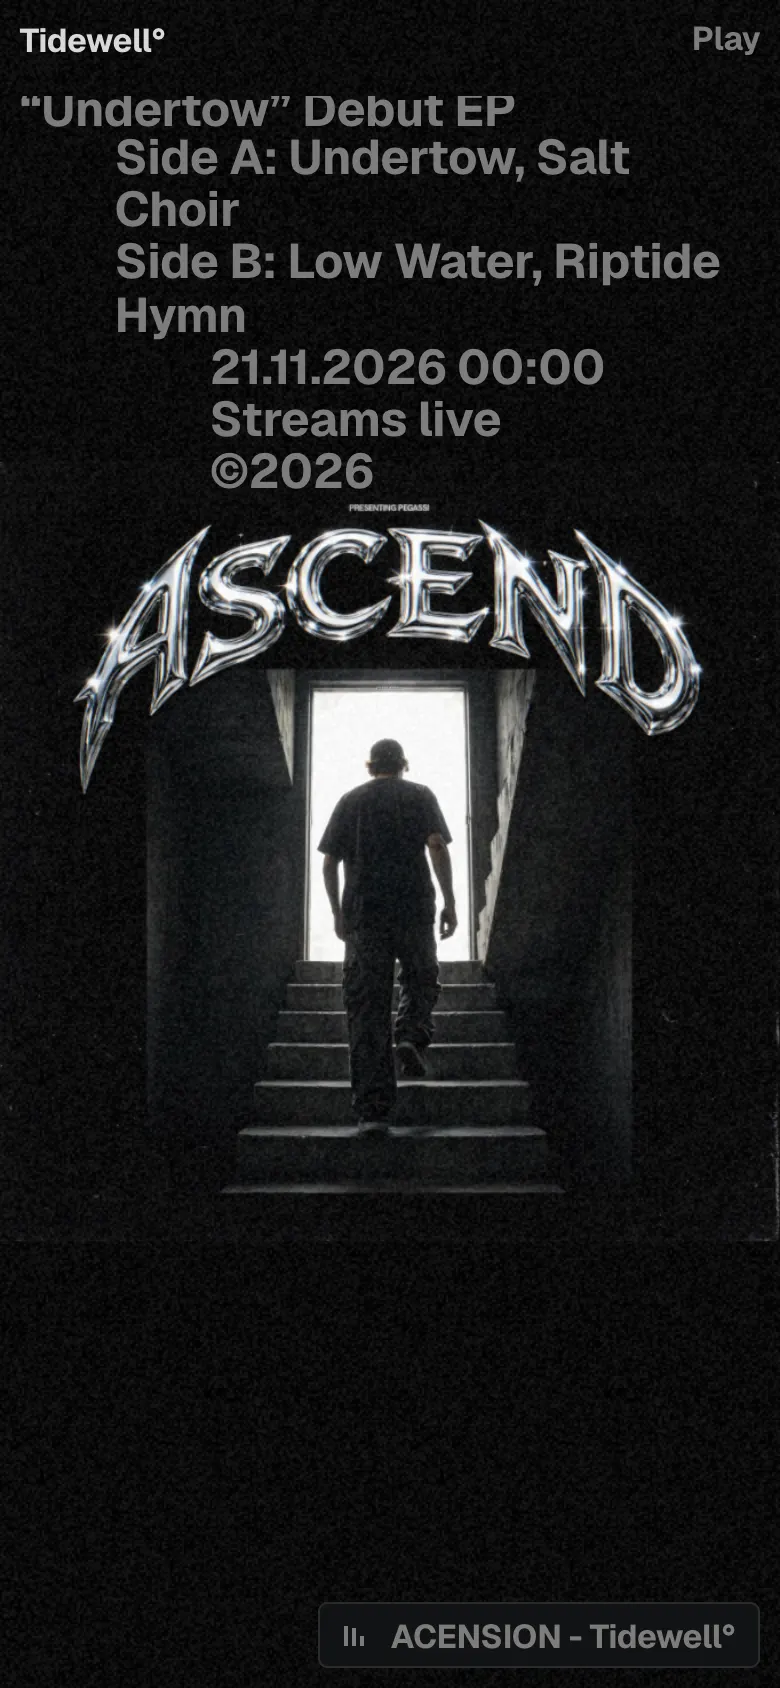
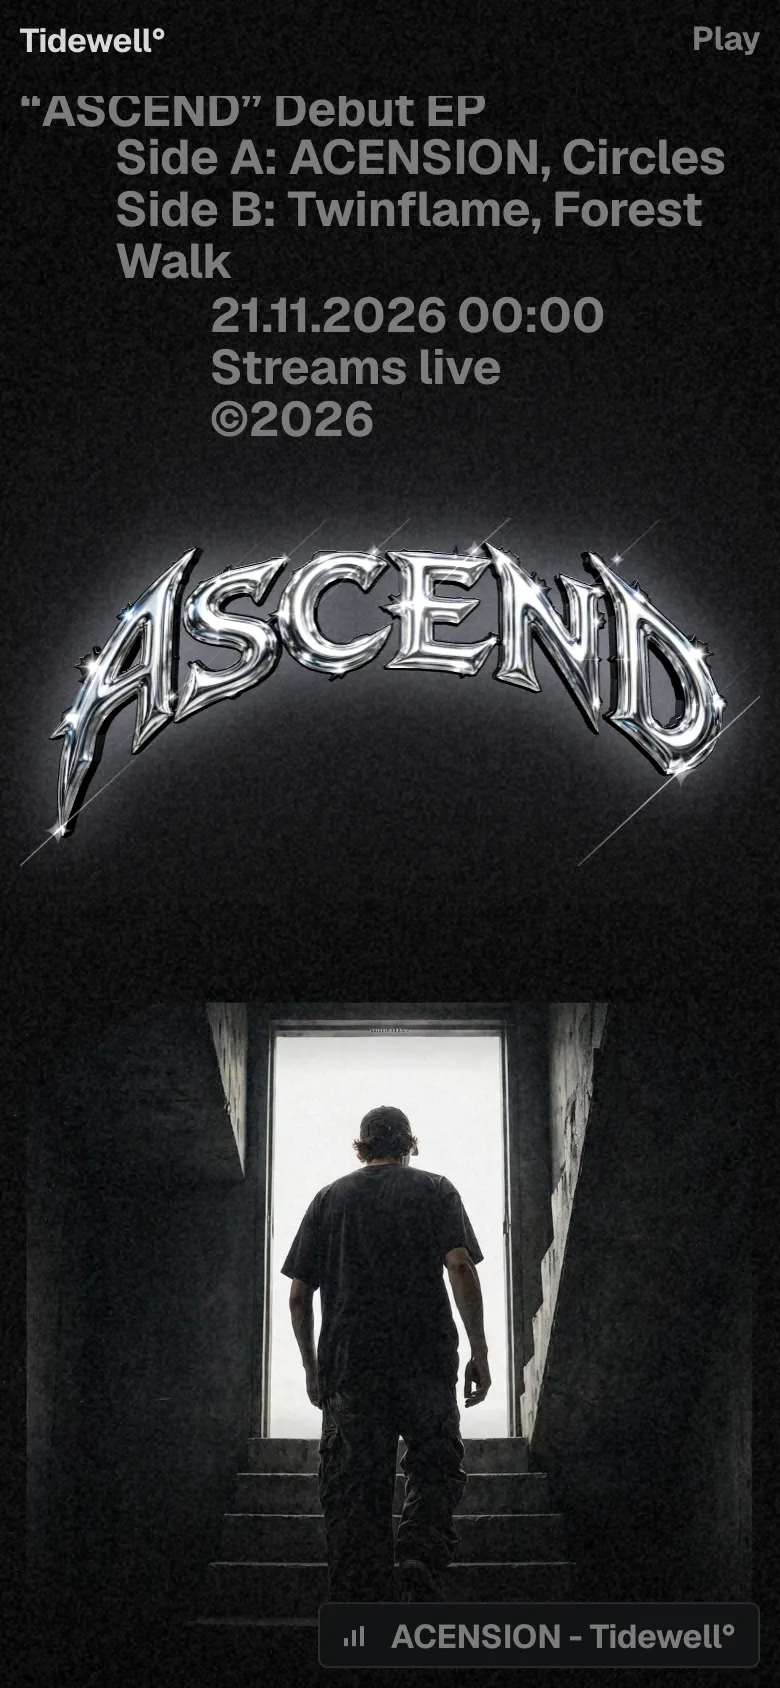
ASCEND rename across copy, sequencer kits, licence; refreshed README screens

diff --git a/src/app/page.tsx b/src/app/page.tsx
@@ -23,10 +23,10 @@ const FACTS = [
   { k: "B:", title: "Where we go next.", text: "Club nights, open-air shows, a new live set built around these four tracks and a lot of very late trains home. Come find me at the front." },
 ];
 const TITLES = [
-  { cue: "I", title: "Undertow", meta: "84 BPM", order: "order-1" },
-  { cue: "III", title: "Low Water", meta: "100 BPM", order: "order-3" },
-  { cue: "II", title: "Salt Choir", meta: "72 BPM", order: "order-2" },
-  { cue: "IV", title: "Riptide Hymn", meta: "120 BPM", order: "order-4" },
+  { cue: "I", title: "ACENSION", meta: "YouTube", order: "order-1" },
+  { cue: "III", title: "Twinflame", meta: "YouTube", order: "order-3" },
+  { cue: "II", title: "Circles", meta: "YouTube", order: "order-2" },
+  { cue: "IV", title: "Forest Walk", meta: "YouTube", order: "order-4" },
 ];
 
 function Mark({ children, className = "", style }: { children: string; className?: string; style?: CSSProperties }) {
@@ -65,7 +65,7 @@ export default function Home() {
               <img src="/media/ascend-stairs.jpg" alt="" className="absolute inset-0 size-full object-cover" />
             </div>
           </div>
-          <h1 className="sr-only">Tidewell, Undertow EP</h1>
+          <h1 className="sr-only">Tidewell, ASCEND EP</h1>
           <div className="t-body pointer-events-none absolute inset-x-0 top-0 h-svh text-mute">
             <p className="absolute top-1/2 hidden -translate-y-1/2 s:block" style={{ left: U(10) }}><Slide d={5}>EP</Slide></p>
             <p className="absolute top-1/2 hidden -translate-y-1/2 s:block" style={{ right: U(10) }}><Slide d={6}>01</Slide></p>
@@ -75,12 +75,12 @@ export default function Home() {
 
         <CueSection className="site mt-var text-mute" style={mt(45, 7)}>
           <div id="notes" className="contents">
-            <Mark className="col-span-2">● Undertow</Mark>
+            <Mark className="col-span-2">● ASCEND</Mark>
             <Lines as="p" text={INTRO} className="t-display mt-var col-indent col-span-4 [--indent:1] s:col-span-12 s:[--indent:5]" style={mt(-27)} />
             <Mark className="col-start-1 s:col-start-5" style={mt(10, 6)}>I</Mark>
             <Lines as="p" text="The [[I|title track|1]] opens every set I play: a slow, heavy build, then a kick so wide the floor feels like it tilts under you." className="t-display mt-var col-start-2 col-end-[-1] s:col-start-6 s:col-span-7" style={mt(10, 6)} />
             <Mark className="col-start-1 s:col-start-5" style={mt(5, 18)}>II</Mark>
-            <Lines as="p" text="[[II|Salt Choir|2]] is my 4am record, for when half the room has gone home and the ones still standing don't want the night to end." className="t-display mt-var col-start-2 col-end-[-1] s:col-start-7 s:col-span-6" style={mt(5, 18)} />
+            <Lines as="p" text="[[II|Circles|2]] is my 4am record, for when half the room has gone home and the ones still standing don't want the night to end." className="t-display mt-var col-start-2 col-end-[-1] s:col-start-7 s:col-span-6" style={mt(5, 18)} />
           </div>
           <div id="tracks" className="t-display mt-var col-start-2 col-end-[-1] flex flex-col leading-[calc(var(--u)*30)] s:col-start-1 s:block s:leading-[calc(var(--u)*45)]" style={mt(80, 120)}>
             <div className="contents s:flex s:justify-center" style={{ columnGap: U(27) }}>
@@ -91,15 +91,15 @@ export default function Home() {
             </div>
           </div>
           <Mark className="col-start-1 s:col-start-5" style={mt(70, 145)}>III</Mark>
-          <Lines as="p" text="[[III|Low Water|3]] has teeth: square-wave bass, a break I chopped on a night train, and a drop I've watched turn a whole field into one jumping crowd." className="t-display mt-var col-start-2 col-end-[-1] s:col-start-6 s:col-span-7" style={mt(70, 145)} />
+          <Lines as="p" text="[[III|Twinflame|3]] has teeth: square-wave bass, a break I chopped on a night train, and a drop I've watched turn a whole field into one jumping crowd." className="t-display mt-var col-start-2 col-end-[-1] s:col-start-6 s:col-span-7" style={mt(70, 145)} />
           <Mark className="col-start-1 s:col-start-5" style={mt(5, 9)}>IV</Mark>
-          <Lines as="p" text="[[IV|Riptide Hymn|4]] closes the record at a hundred and twenty. Big, bright and a little reckless. Hands up, eyes shut, that's the whole idea." className="t-display mt-var col-start-2 col-end-[-1] s:col-start-7 s:col-span-6" style={mt(5, 9)} />
+          <Lines as="p" text="[[IV|Forest Walk|4]] closes the record at a hundred and twenty. Big, bright and a little reckless. Hands up, eyes shut, that's the whole idea." className="t-display mt-var col-start-2 col-end-[-1] s:col-start-7 s:col-span-6" style={mt(5, 9)} />
         </CueSection>
 
         <section aria-label="Film" className="site mt-var t-body text-mute" style={mt(110, 195)}>
           <MediaPanel still="/media/moon-sea.webp" video="/media/moon-sea.mp4" label="Moonlight on open water, a rendered loop" className="col-span-4 aspect-[484/645] s:col-start-7" />
           <div className="col-span-2 col-start-11 hidden s:block" style={{ lineHeight: U(20) }}>
-            <Lines as="span" className="block" text="● Undertow" />
+            <Lines as="span" className="block" text="● ASCEND" />
             <Lines as="span" className="block" text="Open water (rendered)" />
           </div>
         </section>

diff --git a/src/lib/sequencer.ts b/src/lib/sequencer.ts
@@ -12,7 +12,7 @@ export type Kit = { slug: string; title: string; bpm: number; root: number; scal
 const four = (...s: number[]) => [s, s, s, s];
 export const KITS: Kit[] = [
   {
-    slug: "undertow", title: "Undertow", bpm: 84, root: 45, scale: [0, 3, 5, 7, 10], gain: 0.9,
+    slug: "undertow", title: "ACENSION", bpm: 84, root: 45, scale: [0, 3, 5, 7, 10], gain: 0.9,
     rows: [
       { label: "Kick", voice: "kick", original: [[1, 9], [1, 9, 11], [1, 9], [1, 9, 13]] },
       { label: "Rim", voice: "rim", original: four(5, 13) },
@@ -20,11 +20,11 @@ export const KITS: Kit[] = [
       { label: "Bass", voice: "bass", choke: true, deg: [0, 0, 0, 0, 0, 0, 3, 3, 2, 2, 2, 2, 1, 1, 0, 0], original: [[1, 7], [1, 9], [1, 7, 13], [1, 9, 15]] },
       { label: "Pluck", voice: "pluck", deg: [4, 2, 3, 1, 4, 2, 3, 0, 4, 2, 3, 1, 5, 4, 3, 2], original: [[3, 6], [11], [3, 6, 14], []] },
       { label: "Pad", voice: "pad", choke: true, deg: Array(16).fill(0), original: [[1], [], [1], []] },
-      { label: "Undertow", voice: "riser", choke: true, original: [[], [], [], [13]] },
+      { label: "ACENSION", voice: "riser", choke: true, original: [[], [], [], [13]] },
     ],
   },
   {
-    slug: "salt-choir", title: "Salt Choir", bpm: 72, root: 50, scale: [0, 2, 3, 7, 9], gain: 0.85,
+    slug: "salt-choir", title: "Circles", bpm: 72, root: 50, scale: [0, 2, 3, 7, 9], gain: 0.85,
     rows: [
       { label: "Kick", voice: "kick", original: four(1, 11) },
       { label: "Snap", voice: "clap", original: four(9) },
@@ -35,7 +35,7 @@ export const KITS: Kit[] = [
     ],
   },
   {
-    slug: "low-water", title: "Low Water", bpm: 100, root: 41, scale: [0, 3, 7, 8, 10], gain: 0.8,
+    slug: "low-water", title: "Twinflame", bpm: 100, root: 41, scale: [0, 3, 7, 8, 10], gain: 0.8,
     rows: [
       { label: "Kick", voice: "kick", original: four(1, 5, 9, 13) },
       { label: "Clap", voice: "clap", original: four(5, 13) },
@@ -43,19 +43,19 @@ export const KITS: Kit[] = [
       { label: "Open Hat", voice: "openhat", original: [[], [15], [], [7, 15]] },
       { label: "Bass", voice: "bass", choke: true, deg: [0, 0, 0, 0, 0, 0, 0, 0, 3, 3, 3, 3, 4, 4, 2, 2], original: four(3, 7, 11, 15) },
       { label: "Stab", voice: "lead", choke: true, deg: [2, 2, 2, 2, 2, 2, 2, 2, 3, 3, 3, 3, 1, 1, 1, 1], original: [[15], [7], [15], [7]] },
-      { label: "Low Water", voice: "riser", choke: true, original: [[], [], [], [9]] },
+      { label: "Twinflame", voice: "riser", choke: true, original: [[], [], [], [9]] },
     ],
   },
   {
-    slug: "riptide-hymn", title: "Riptide Hymn", bpm: 120, root: 48, scale: [0, 2, 4, 7, 9], gain: 0.75,
+    slug: "riptide-hymn", title: "Forest Walk", bpm: 120, root: 48, scale: [0, 2, 4, 7, 9], gain: 0.75,
     rows: [
       { label: "Kick", voice: "kick", original: four(1, 5, 9, 13) },
       { label: "Clap", voice: "clap", original: four(5, 13) },
       { label: "Hat", voice: "hat", original: four(3, 7, 11, 15) },
       { label: "Bass", voice: "bass", choke: true, deg: [0, 0, 0, 0, 0, 0, 0, 0, 3, 3, 3, 3, 2, 2, 2, 2], original: four(3, 7, 11, 15) },
       { label: "Lead", voice: "lead", choke: true, deg: [4, 4, 3, 3, 2, 2, 4, 4, 5, 5, 4, 4, 3, 3, 2, 2], original: [[1, 5, 9, 13], [1, 5, 9, 13], [1, 5, 9, 13, 15], [1, 5, 9]] },
-      { label: "Hymn Pad", voice: "pad", choke: true, deg: Array(16).fill(0), original: [[15], [], [], []] },
-      { label: "Riptide", voice: "riser", choke: true, original: [[], [], [], [15]] },
+      { label: "Deep Pad", voice: "pad", choke: true, deg: Array(16).fill(0), original: [[15], [], [], []] },
+      { label: "Forest Walk", voice: "riser", choke: true, original: [[], [], [], [15]] },
     ],
   },
 ];

diff --git a/src/components/SiteHeader.tsx b/src/components/SiteHeader.tsx
@@ -20,9 +20,9 @@ export function SiteHeader({ active }: { active?: "listen" | "sequencer" | "abou
       <Link href="/sequencer" aria-current={cur("sequencer")} className="link hidden whitespace-nowrap s:col-start-4 s:row-start-1 s:block" style={{ marginLeft: U(30) }}><Slide d={2}><span className="relative">{dot("sequencer")}Sequencer</span></Slide></Link>
       <Link href="/#about" aria-current={cur("about")} className="link hidden s:col-start-6 s:row-start-1 s:block"><Slide d={3}><span className="relative">{dot("about")}About</span></Slide></Link>
       <div className="mt-var col-span-4 row-start-2 s:col-span-4 s:col-start-8 s:row-start-1" style={{ "--mt": U(16), "--mt-s": U(7) } as CSSProperties}>
-        <Lines as="p" className="t-title lead-in" text="“Undertow” Debut EP" />
-        <Lines as="p" className="t-title indent-half s:whitespace-nowrap" style={{ marginTop: U(3) }} text="Side A: Undertow, Salt Choir" />
-        <Lines as="p" className="t-title indent-half s:whitespace-nowrap" text="Side B: Low Water, Riptide Hymn" />
+        <Lines as="p" className="t-title lead-in" text="“ASCEND” Debut EP" />
+        <Lines as="p" className="t-title indent-half s:whitespace-nowrap" style={{ marginTop: U(3) }} text="Side A: ACENSION, Circles" />
+        <Lines as="p" className="t-title indent-half s:whitespace-nowrap" text="Side B: Twinflame, Forest Walk" />
         <Lines as="p" className="t-title indent-full" text="21.11.2026 00:00" />
         <Lines as="p" className="t-title indent-full" text="Streams live" />
         <Lines as="p" className="t-title indent-full" text="©2026" />

diff --git a/src/components/Sequencer.tsx b/src/components/Sequencer.tsx
@@ -2,6 +2,7 @@
 // Sequencer screen, laid out to the reference's measured page (1440 px: tracks panel 216u wide, controls 4 x 3 cells
 // of 45u, a 16-step grid with 7u column gaps, 3u radii, a full-width share bar), with our own kits and sounds.
 import { useEffect, useSyncExternalStore, type CSSProperties } from "react";
+import { pause as pauseReal, playTrack, TRACKS } from "@/lib/audio";
 import {
   KITS, clearAll, copyPattern, hydrate, markCopied, pastePattern, play, preview, resetLoop, selectKit, selectPattern,
   seq, shareUrl, stop, toggleFollow, toggleStep,
@@ -69,6 +70,11 @@ export function Sequencer() {
             </button>
           ))}
         </div>
+        {/* rx: the real streamed track behind this kit, played through the site's YouTube player */}
+        <button onClick={() => { stop(); pauseReal(); playTrack(s.kit); }}
+          className={`${panel} hoverable col-span-4 flex items-center justify-center`} style={{ ...radius, height: U(45) }}>
+          ▶ {TRACKS[s.kit].side} · Listen to the real track (YouTube ↗)
+        </button>
       </div>
 
       <div className="seq-scroll min-h-0 flex-1" style={{ marginTop: U(40.5) }}>

diff --git a/src/components/ui.tsx b/src/components/ui.tsx
@@ -89,7 +89,7 @@ export function Gate() {
   }, []);
   if (state === "gone") return null;
   return (
-    <div role="dialog" aria-modal aria-label="Enter Undertow" data-lenis-prevent onClick={() => enter(true)} className={`grain fixed inset-0 z-50 grid cursor-pointer place-items-center overflow-hidden bg-[var(--ink)] transition-opacity duration-500 ${state === "fading" ? "opacity-0" : ""}`}>
+    <div role="dialog" aria-modal aria-label="Enter ASCEND" data-lenis-prevent onClick={() => enter(true)} className={`grain fixed inset-0 z-50 grid cursor-pointer place-items-center overflow-hidden bg-[var(--ink)] transition-opacity duration-500 ${state === "fading" ? "opacity-0" : ""}`}>
       <div className="flex flex-col items-center gap-5 px-6 text-center">
         <button onClick={(e) => { e.stopPropagation(); enter(true); }} aria-label="Click to enter, sound on" className={`cover-wrap group ${state === "loading" ? "" : "is-ready"} ${state === "entering" || state === "fading" ? "is-entering" : ""}`}>
           <span ref={box} className="cover-box">

diff --git a/src/app/sequencer/page.tsx b/src/app/sequencer/page.tsx
@@ -3,8 +3,8 @@ import { Sequencer } from "@/components/Sequencer";
 import { SiteHeader } from "@/components/SiteHeader";
 
 export const metadata: Metadata = {
-  title: "Sequencer, Undertow EP",
-  description: "Rebuild the Undertow tracks step by step: four kits, four patterns each, every sound synthesised in your browser.",
+  title: "Sequencer, ASCEND EP",
+  description: "Rebuild the ASCEND tracks step by step: four kits, four patterns each, every sound synthesised in your browser.",
 };
 
 export default function SequencerPage() {
@@ -12,7 +12,7 @@ export default function SequencerPage() {
     <>
       <div aria-hidden className="grain-layer pointer-events-none fixed inset-0 -z-[5]" />
       <SiteHeader active="sequencer" />
-      <h1 className="sr-only">Undertow sequencer</h1>
+      <h1 className="sr-only">ASCEND sequencer</h1>
       <Sequencer />
     </>
   );

diff --git a/src/app/layout.tsx b/src/app/layout.tsx
@@ -7,8 +7,8 @@ const sans = Geist({ variable: "--font-geist-sans", subsets: ["latin"], weight: 
 const mono = Geist_Mono({ variable: "--font-geist-mono", subsets: ["latin"] });
 
 export const metadata: Metadata = {
-  title: "Tidewell, Undertow EP",
-  description: "Undertow, the debut EP from Tidewell: the record streams live in your browser. A concept release site.",
+  title: "Tidewell, ASCEND EP",
+  description: "ASCEND, the debut EP from Tidewell: the record streams live in your browser. A concept release site.",
 };
 export const viewport: Viewport = { themeColor: "#040405" };
 

diff --git a/README.md b/README.md
@@ -46,6 +46,9 @@ Black, silver, a moon on the water, and four tracks your browser writes live.
     <td><sub><b>03 · Film</b>: a lazy video panel. A cursor chip follows the pointer, and clicking toggles the sound.</sub></td>
     <td><sub><b>04 · Player</b>: tracks, a spinning silver disc, live spectrum bars and transport.</sub></td>
   </tr>
+  <tr>
+    <td><img src="docs/screens/12-sequencer.webp" alt="Sequencer page: a kit per side of the record on a 16-step grid, with a link to the real streamed track" width="100%" /></td>
+  </tr>
 </table>
 
 <p align="center">
@@ -60,27 +63,28 @@ Black, silver, a moon on the water, and four tracks your browser writes live.
 
 ## ◐ The idea
 
-A release site for an EP that doesn't exist, by an artist who doesn't exist. Nothing is streamed, there are no audio files, and every note is synthesised in the browser the moment you press play.
+A release site for an EP that doesn't exist, by an artist who doesn't exist. The four tracks stream live from YouTube through the site's own player, and a step-sequencer page lets you rebuild them step by step with sounds written in the browser.
 
 The site is the record:
 
 1. **You hold the sleeve.** The silver CD slides out as you reach for it.
-2. **You enter.** You land on the surface of a night sea.
-3. **You scroll.** The camera sinks under the water, and the sleeve notes surface line by line.
+2. **You enter.** The artwork pops, and the chrome wordmarks float over it.
+3. **You scroll.** The artwork dissolves into the sea, the camera sinks under the water, and the sleeve notes surface line by line.
 
 ## ◑ How a visit flows
 
 ```mermaid
 flowchart LR
-  A[Gate · record sleeve] -- click --> B[WebAudio engine starts]
+  A[Gate · record sleeve] -- click --> B[YouTube IFrame player starts]
   B --> C[(signal singleton<br/>level · bass · progress)]
   D[Lenis smooth scroll] --> C
   E[Pointer] --> C
-  C --> F[R3F scene<br/>wordmark · glints · moon road]
+  C --> F[R3F scene<br/>artwork · wordmark · glints · moon road]
   C --> G[Player panel<br/>disc · spectrum bars]
   C --> H[Video chip<br/>sound on / off]
   D --> I[Line reveal<br/>position check]
   D --> J[--scene dim<br/>behind reading sections]
+  B --> K[(Sequencer page<br/>step kits per track)]
 ```
 
 Everything that moves every frame reads one plain object (`src/lib/signal.ts`). React state is only for things a person can see change, such as which track is playing.
@@ -89,12 +93,13 @@ Everything that moves every frame reads one plain object (`src/lib/signal.ts`). 
 
 | Piece | File | How it's made |
 |---|---|---|
-| **Gate: sleeve and CD** | `components/ui.tsx` · `Cover.tsx` | The cover is our Blender still plus an SVG wordmark on a `textPath` arc, filled with a chrome gradient and a soft `feGaussianBlur` glow. Four-point glints twinkle in CSS. The CD sits behind the sleeve at 16%, slides to 30% on hover and 62% on click (1 s, `cubic-bezier(.2,.7,.2,1)`), spins faster, and then the curtain fades over 700 ms. Page scroll is locked until you enter. |
-| **Arched chrome wordmark** | `components/Scene.tsx` | `TextGeometry` is bent on the CPU with `x' = (R+y)·sinθ`, `y' = (R+y)·cosθ − R`, where `θ = x/R`. Physical material: metalness 1, roughness .12, clearcoat. It's lit by a `<Lightformer>` environment, with no HDR download. |
-| **Moon and its light path** | `Scene.tsx` | An unlit disc on the horizon, plus a flat additive plane carrying a baked falloff of broken horizontal glitter. A seeded PRNG keeps the pattern identical on every visit, and the path pulses with the music. |
+| **Gate: sleeve and CD** | `components/ui.tsx` · `Cover.tsx` | The cover is the ASCEND artwork, rendered full-bleed — the chrome word, "PRESENTING PEGASSI" caption and star glints are baked into the picture. The CD sits behind the sleeve at 16%, slides to 30% on hover and 62% on click (1 s, `cubic-bezier(.2,.7,.2,1)`), spins faster, and then the curtain fades over 700 ms. Page scroll is locked until you enter. |
+| **Hero artwork + 3D wordmark** | `components/Scene.tsx` · `HeroWord.tsx` | The cover lives inside the scene behind the word: it pops on entry (a slight over-settle over ~0.9 s), parallax-drifts with the pointer, and dissolves as you scroll so the sea, moon and sparkles surface beneath the chrome word. `TextGeometry` is bent on the CPU with `x' = (R+y)·sinθ`, `y' = (R+y)·cosθ − R`, `θ = x/R`; physical material metalness 1, roughness .12, clearcoat, lit by a `<Lightformer>` environment with no HDR download. |
+| **Moon and its light path** | `Scene.tsx` | An unlit disc on the horizon plus a flat additive plane carrying a baked falloff of broken horizontal glitter. Both stay hidden while the artwork is up, and a seeded PRNG keeps the glitter identical on every visit. |
 | **The descent** | `Scene.tsx` · `ui.tsx` | Scroll progress over 1.6 viewports drives the camera from above the water to below it. The background and fog cross-fade, and the surface underside is drawn only once you're submerged. After that the canvas dims to 14% so the reading sections stay crisp. |
-| **Generative EP** | `lib/audio.ts` | A WebAudio lookahead scheduler (25 ms tick, 120 ms horizon) runs 16th-note steps: kick, noise hats, a bass on scale degrees, detuned saw pads and random plucks. Each track has its own BPM, root, scale and waveform. An analyser feeds `level` and `bass`. |
-| **Player panel** | `ui.tsx` | A tracks grid, plus a silver disc whose sheen stays still (like light on a real CD) while the label spins. The spectrum is drawn to a canvas with low bins spread on a curve, alongside elapsed time, BPM and transport. Esc closes it and returns focus. |
+| **Streaming player** | `lib/audio.ts` · `ui.tsx` | Four tracks stream via YouTube's IFrame Player API in a single hidden 1px embed; picking a side loads its video by id. The spectrum the visuals read is drawn locally, so the scene pulse and the player's canvas bars keep dancing while an embed's audio can't be analysed. |
+| **Player panel** | `ui.tsx` | A tracks grid, plus a silver disc whose sheen stays still (like light on a real CD) while the label spins. Elapsed time, track name and transport; Esc closes it and returns focus. |
+| **Sequencer** | `components/Sequencer.tsx` · `lib/sequencer.ts` | A step-sequencer page (the nav's second item): one synth kit per side of the record, four patterns each, 16 steps, share links — every sound written in the browser. Each kit also routes to the real streamed track. |
 | **Line reveal** | `components/Lines.tsx` | Words are measured into lines after fonts load. Each line sits in a clip mask and rises from 105% over 1.75 s with expo-out, 0.1 s apart. It triggers by position check, so anchor jumps still reveal. It re-splits on resize. Without JS or with reduced motion the text is plain. |
 | **Video panels** | `components/MediaPanel.tsx` | A still sits under a muted loop. The `src` is set only when the panel is near the viewport, it plays only while visible, and the still fades on the first painted frame (`requestVideoFrameCallback`). A blend-mode chip trails the cursor with a lagged tilt. |
 | **Sleeve-note layout** | `app/page.tsx` | Full-width display paragraphs with the first line indented 5 columns (4 on mobile), and the marker sitting in the indent on a shared grid row. |
@@ -145,7 +150,7 @@ npm run build && npm start
 src/
   app/            layout, page (section order), globals.css (tokens, disc, gate, line reveal)
   components/     Scene · Cover · Lines · MediaPanel · ui (gate, player, tracklist, smooth scroll)
-  lib/            audio.ts (generative engine) · signal.ts (per-frame values)
+  lib/            audio.ts (streamed playback) · sequencer.ts (step kits) · signal.ts (per-frame values)
 art/              moon_sea.py (Blender footage)
 public/media/     rendered loops and stills
 public/fonts/     wordmark typeface + licence
@@ -153,8 +158,14 @@ public/fonts/     wordmark typeface + licence
 
 ---
 
+## License
+
+**© 2026 Ravjot Singh. All rights reserved.** This project is not open source — see [LICENSE.md](LICENSE.md) for the terms: no copying, modification, redistribution, or commercial use without written permission from the owner. Third-party songs stream via official YouTube embeds and remain the property of their rights holders.
+
+---
+
 <sub>
 
-**Originality.** The interaction patterns of this *kind* of site were studied from [ascension.pegassi.be](https://ascension.pegassi.be): a gate cover, line reveals, video panels and a player. We studied them as behaviour only; no code, music, imagery, copy or identity was reused. Tidewell, Undertow, its dates and its venues are fictional, and every asset here was made for this project. The wordmark uses the MgOpen Moderna-derived typeface; its licence is in `public/fonts/`.
+**Originality.** The interaction patterns of this *kind* of site were studied from [ascension.pegassi.be](https://ascension.pegassi.be): a gate cover, line reveals, video panels and a player. We studied them as behaviour only; no code, music, imagery, copy or identity was reused. Tidewell, its dates and its venues are fictional, and every asset here was made for this project. The wordmark uses the MgOpen Moderna-derived typeface; its licence is in `public/fonts/`.
 
 </sub>

diff --git a/LICENSE.md b/LICENSE.md
@@ -1,0 +1,19 @@
+# ASCEND — License
+
+**© 2026 Ravjot Singh. All rights reserved.**
+
+This licence covers the ASCEND project: all of its source code, design, layout, copy, graphics, compiled assets and builds, in this repository and in every deployed form of it (the live site, previews, and builds derived from it). Ravjot Singh is the sole author and owner of the project.
+
+## You may not
+
+- Copy, reproduce or republish any part of this project, in whole or in part
+- Modify, adapt or create derivative works from any part of it
+- Redistribute, sublicense, sell, or use any part of it commercially
+- Remove or alter this notice or any attribution of ownership
+- Upload it, or any part of it, to another repository, marketplace, template gallery, or AI training corpus
+
+No right is granted beyond what copyright law automatically requires you to respect. Anyone who wishes to use any part of the project must first obtain written permission from the owner.
+
+## Third-party audio
+
+The songs that play on the site are embedded and streamed from YouTube via the official player, and each one remains the property of its respective rights holders. Streams are played according to the terms of those platforms. The third-party music is not covered by the project licence, and no claim of ownership over it is made or implied.
